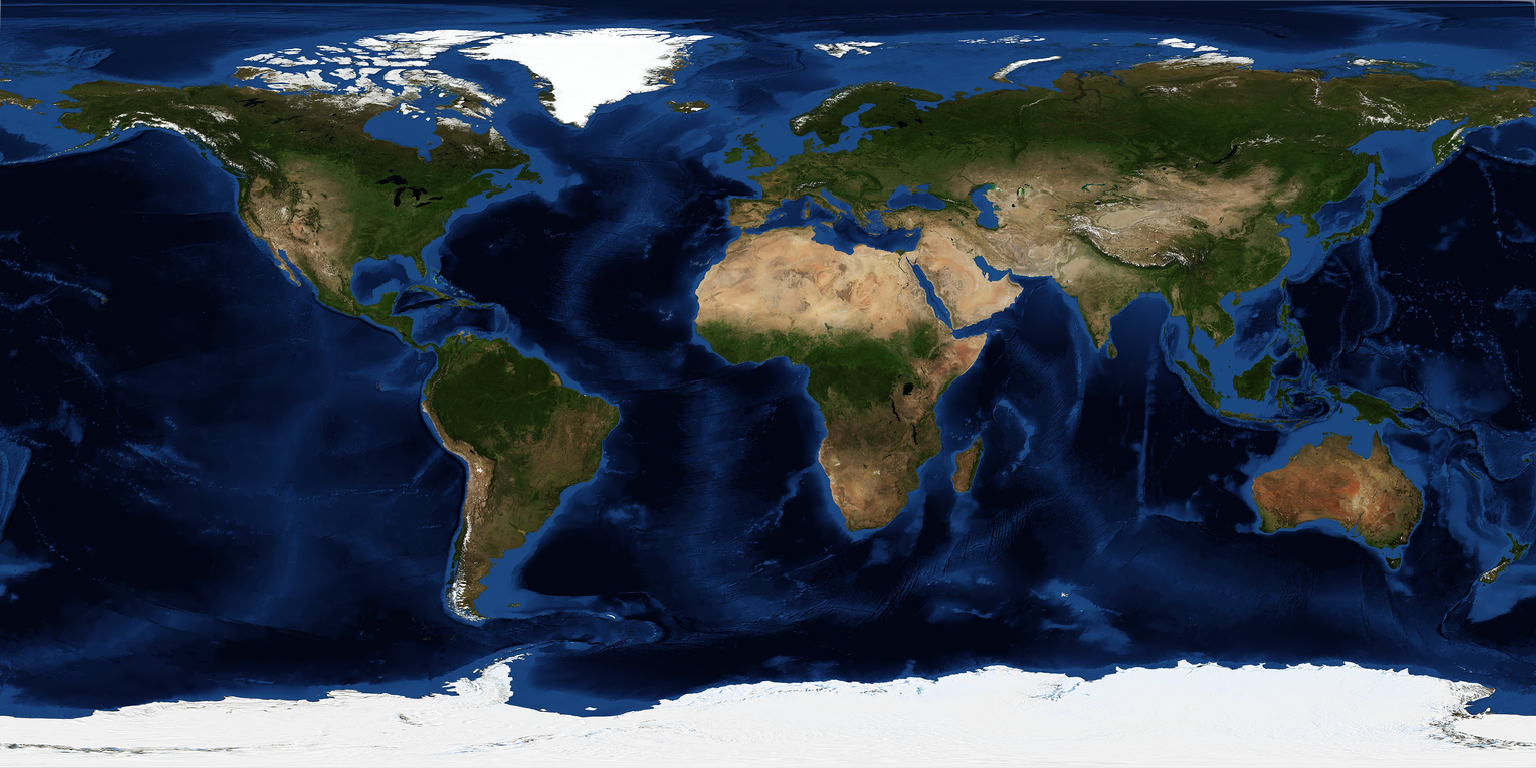
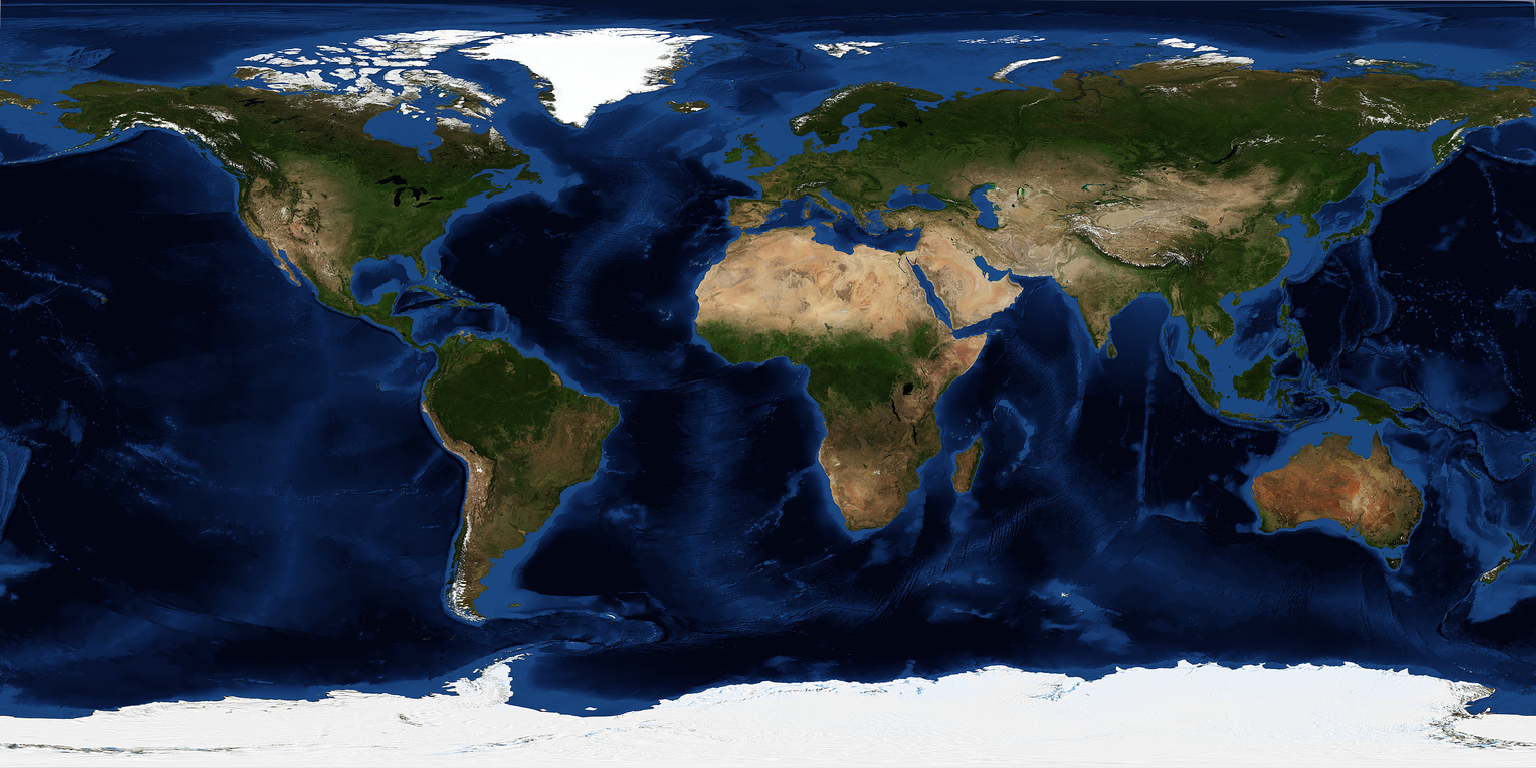
Portada: globo más nítido también en móvil (4K en todas las pantallas, textura de día más definida, más píxeles en pantallas retina); el origen se llama solo «Cartagena»
Claude-Session: https://claude.ai/code/session_01JPTHaAJ66ttUdrgcLwMZzx

diff --git a/index.html b/index.html
@@ -32,7 +32,7 @@
 <script>(function(){try{var K='guardiana-idioma',q=null;try{q=localStorage.getItem(K)}catch(e){}if(!q){var L=(navigator.languages&&navigator.languages.length)?navigator.languages:[navigator.language||''];for(var i=0;i<L.length;i++){var c=(''+L[i]).toLowerCase();if(c.indexOf('pt')===0){q='pt';break}if(c.indexOf('es')===0){q='es';break}if(c.indexOf('en')===0){q='en';break}}}var p=location.pathname;if((q==='es'||q==='pt')&&(p==='/'||p==='/index.html'))location.replace('/'+q+'/'+location.hash);}catch(e){}})();</script>
 <link rel="preload" as="font" type="font/woff" crossorigin href="/fonts/SchibstedGrotesk-var.woff">
 <link rel="preload" as="font" type="font/woff" crossorigin href="/fonts/HankenGrotesk-var.woff">
-<link rel="stylesheet" href="/portada.css?v=1792295738">
+<link rel="stylesheet" href="/portada.css?v=1792296046">
 </head>
 <body>
 <a class="saltar" href="#contenido">Skip to content</a>
@@ -206,11 +206,11 @@
     <p class="pie-dir">GUARDIANA · guardianagroup.com · Torre Empresarial PRODEGI, piso 18, Bocagrande, Cartagena de Indias, Colombia · <a href="mailto:hola@guardianagroup.com">hola@guardianagroup.com</a> · This page uses no cookies or analytics.</p>
   </div>
 </footer>
-<script src="/globo.js?v=1792295738" defer></script>
+<script src="/globo.js?v=1792296046" defer></script>
 <script>
 document.addEventListener('DOMContentLoaded',function(){
   try{var P=window.GUARDIANA_PRICES;if(P){var a=document.getElementById('plus-precio'),b=document.getElementById('plus-nota'),f=document.getElementById('fund-precio'),h=document.getElementById('hero-precio');if(a)a.textContent=P.plusEn;if(b)b.textContent=P.plusNoteEn;if(f)f.textContent=P.fundEn;if(h)h.textContent='Then '+P.plusEn+' or '+P.fundEn+' once.';}}catch(e){}
-  try{var cv=document.getElementById('globo'),fig=cv&&cv.closest('.hero-globo');if(!(cv&&window.GuardianaGlobo&&GuardianaGlobo.iniciar(cv,{ruta:'/tierra/',lon:-36,tilt:0.5,rutas:{origen:{n:'Test PC, Cartagena',ll:[-75.51,10.39]},destinos:[{n:'United States · 2,520',ll:[-88,38.5],peso:2520},{n:'Spain · 365',ll:[-3.7,40.3],peso:365},{n:'France · 219',ll:[2.4,46.6],peso:219},{n:'Canada · 86',ll:[-79.4,45.0],peso:86},{n:'United Kingdom · 81',ll:[-1.8,53.0],peso:81},{n:'Israel · 71',ll:[35.0,31.4],peso:71}]},lista:function(){cv.classList.add('listo');if(fig)fig.classList.add('vivo');}}))&&cv)cv.hidden=true;}catch(e){}
+  try{var cv=document.getElementById('globo'),fig=cv&&cv.closest('.hero-globo');if(!(cv&&window.GuardianaGlobo&&GuardianaGlobo.iniciar(cv,{ruta:'/tierra/',lon:-36,tilt:0.5,rutas:{origen:{n:'Cartagena',ll:[-75.51,10.39]},destinos:[{n:'United States · 2,520',ll:[-88,38.5],peso:2520},{n:'Spain · 365',ll:[-3.7,40.3],peso:365},{n:'France · 219',ll:[2.4,46.6],peso:219},{n:'Canada · 86',ll:[-79.4,45.0],peso:86},{n:'United Kingdom · 81',ll:[-1.8,53.0],peso:81},{n:'Israel · 71',ll:[35.0,31.4],peso:71}]},lista:function(){cv.classList.add('listo');if(fig)fig.classList.add('vivo');}}))&&cv)cv.hidden=true;}catch(e){}
   try{var K='guardiana-idioma',l=document.querySelectorAll('a[data-idioma]');for(var i=0;i<l.length;i++)l[i].addEventListener('click',function(){try{localStorage.setItem(K,this.getAttribute('data-idioma'))}catch(e){}});}catch(e){}
 });
 </script>

diff --git a/pt/index.html b/pt/index.html
@@ -32,7 +32,7 @@
 
 <link rel="preload" as="font" type="font/woff" crossorigin href="/fonts/SchibstedGrotesk-var.woff">
 <link rel="preload" as="font" type="font/woff" crossorigin href="/fonts/HankenGrotesk-var.woff">
-<link rel="stylesheet" href="/portada.css?v=1792295738">
+<link rel="stylesheet" href="/portada.css?v=1792296046">
 </head>
 <body>
 <a class="saltar" href="#contenido">Pular para o conteúdo</a>
@@ -206,11 +206,11 @@
     <p class="pie-dir">GUARDIANA · guardianagroup.com · Torre Empresarial PRODEGI, piso 18, Bocagrande, Cartagena de Indias, Colombia · <a href="mailto:hola@guardianagroup.com">hola@guardianagroup.com</a> · Esta página não usa cookies nem análises.</p>
   </div>
 </footer>
-<script src="/globo.js?v=1792295738" defer></script>
+<script src="/globo.js?v=1792296046" defer></script>
 <script>
 document.addEventListener('DOMContentLoaded',function(){
   try{var P=window.GUARDIANA_PRICES;if(P){var a=document.getElementById('plus-precio'),b=document.getElementById('plus-nota'),f=document.getElementById('fund-precio'),h=document.getElementById('hero-precio');if(a)a.textContent=P.plusPt;if(b)b.textContent=P.plusNotePt;if(f)f.textContent=P.fundPt;if(h)h.textContent='Depois, '+P.plusPt+' ou '+P.fundPt+' uma única vez.';}}catch(e){}
-  try{var cv=document.getElementById('globo'),fig=cv&&cv.closest('.hero-globo');if(!(cv&&window.GuardianaGlobo&&GuardianaGlobo.iniciar(cv,{ruta:'/tierra/',lon:-36,tilt:0.5,rutas:{origen:{n:'PC de testes, Cartagena',ll:[-75.51,10.39]},destinos:[{n:'Estados Unidos · 2.520',ll:[-88,38.5],peso:2520},{n:'Espanha · 365',ll:[-3.7,40.3],peso:365},{n:'França · 219',ll:[2.4,46.6],peso:219},{n:'Canadá · 86',ll:[-79.4,45.0],peso:86},{n:'Reino Unido · 81',ll:[-1.8,53.0],peso:81},{n:'Israel · 71',ll:[35.0,31.4],peso:71}]},lista:function(){cv.classList.add('listo');if(fig)fig.classList.add('vivo');}}))&&cv)cv.hidden=true;}catch(e){}
+  try{var cv=document.getElementById('globo'),fig=cv&&cv.closest('.hero-globo');if(!(cv&&window.GuardianaGlobo&&GuardianaGlobo.iniciar(cv,{ruta:'/tierra/',lon:-36,tilt:0.5,rutas:{origen:{n:'Cartagena',ll:[-75.51,10.39]},destinos:[{n:'Estados Unidos · 2.520',ll:[-88,38.5],peso:2520},{n:'Espanha · 365',ll:[-3.7,40.3],peso:365},{n:'França · 219',ll:[2.4,46.6],peso:219},{n:'Canadá · 86',ll:[-79.4,45.0],peso:86},{n:'Reino Unido · 81',ll:[-1.8,53.0],peso:81},{n:'Israel · 71',ll:[35.0,31.4],peso:71}]},lista:function(){cv.classList.add('listo');if(fig)fig.classList.add('vivo');}}))&&cv)cv.hidden=true;}catch(e){}
   try{var K='guardiana-idioma',l=document.querySelectorAll('a[data-idioma]');for(var i=0;i<l.length;i++)l[i].addEventListener('click',function(){try{localStorage.setItem(K,this.getAttribute('data-idioma'))}catch(e){}});}catch(e){}
 });
 </script>

diff --git a/es/index.html b/es/index.html
@@ -32,7 +32,7 @@
 
 <link rel="preload" as="font" type="font/woff" crossorigin href="/fonts/SchibstedGrotesk-var.woff">
 <link rel="preload" as="font" type="font/woff" crossorigin href="/fonts/HankenGrotesk-var.woff">
-<link rel="stylesheet" href="/portada.css?v=1792295738">
+<link rel="stylesheet" href="/portada.css?v=1792296046">
 </head>
 <body>
 <a class="saltar" href="#contenido">Saltar al contenido</a>
@@ -206,11 +206,11 @@
     <p class="pie-dir">GUARDIANA · guardianagroup.com · Torre Empresarial PRODEGI, piso 18, Bocagrande, Cartagena de Indias, Colombia · <a href="mailto:hola@guardianagroup.com">hola@guardianagroup.com</a> · Esta página no usa cookies ni analíticas.</p>
   </div>
 </footer>
-<script src="/globo.js?v=1792295738" defer></script>
+<script src="/globo.js?v=1792296046" defer></script>
 <script>
 document.addEventListener('DOMContentLoaded',function(){
   try{var P=window.GUARDIANA_PRICES;if(P){var a=document.getElementById('plus-precio'),b=document.getElementById('plus-nota'),f=document.getElementById('fund-precio'),h=document.getElementById('hero-precio');if(a)a.textContent=P.plus;if(b)b.textContent=P.plusNote;if(f)f.textContent=P.fund;if(h)h.textContent='Después, '+P.plus+' o '+P.fund+' una sola vez.';}}catch(e){}
-  try{var cv=document.getElementById('globo'),fig=cv&&cv.closest('.hero-globo');if(!(cv&&window.GuardianaGlobo&&GuardianaGlobo.iniciar(cv,{ruta:'/tierra/',lon:-36,tilt:0.5,rutas:{origen:{n:'PC de pruebas, Cartagena',ll:[-75.51,10.39]},destinos:[{n:'Estados Unidos · 2.520',ll:[-88,38.5],peso:2520},{n:'España · 365',ll:[-3.7,40.3],peso:365},{n:'Francia · 219',ll:[2.4,46.6],peso:219},{n:'Canadá · 86',ll:[-79.4,45.0],peso:86},{n:'Reino Unido · 81',ll:[-1.8,53.0],peso:81},{n:'Israel · 71',ll:[35.0,31.4],peso:71}]},lista:function(){cv.classList.add('listo');if(fig)fig.classList.add('vivo');}}))&&cv)cv.hidden=true;}catch(e){}
+  try{var cv=document.getElementById('globo'),fig=cv&&cv.closest('.hero-globo');if(!(cv&&window.GuardianaGlobo&&GuardianaGlobo.iniciar(cv,{ruta:'/tierra/',lon:-36,tilt:0.5,rutas:{origen:{n:'Cartagena',ll:[-75.51,10.39]},destinos:[{n:'Estados Unidos · 2.520',ll:[-88,38.5],peso:2520},{n:'España · 365',ll:[-3.7,40.3],peso:365},{n:'Francia · 219',ll:[2.4,46.6],peso:219},{n:'Canadá · 86',ll:[-79.4,45.0],peso:86},{n:'Reino Unido · 81',ll:[-1.8,53.0],peso:81},{n:'Israel · 71',ll:[35.0,31.4],peso:71}]},lista:function(){cv.classList.add('listo');if(fig)fig.classList.add('vivo');}}))&&cv)cv.hidden=true;}catch(e){}
   try{var K='guardiana-idioma',l=document.querySelectorAll('a[data-idioma]');for(var i=0;i<l.length;i++)l[i].addEventListener('click',function(){try{localStorage.setItem(K,this.getAttribute('data-idioma'))}catch(e){}});}catch(e){}
 });
 </script>

diff --git a/globo.js b/globo.js
@@ -64,7 +64,7 @@
       'void main(){ vec3 n=normalize(vN); float mu=dot(n,uSol);\n' +
       ' vec3 dia=pow(texture(uDia,vUv).rgb, vec3(2.2)); float luz=texture(uLuces,vUv).r; float agua=texture(uAgua,vUv).r;\n' +
       ' float lado=smoothstep(-0.08,0.22,mu); float diaF=smoothstep(-0.14,0.24,mu);\n' +
-      ' vec3 col=mix(dia*vec3(0.19,0.24,0.38)+vec3(0.005,0.011,0.026), dia*(0.70+0.62*max(mu,0.0)), diaF);\n' +
+      ' vec3 col=mix(dia*vec3(0.24,0.29,0.44)+vec3(0.005,0.011,0.026), dia*(0.70+0.62*max(mu,0.0)), diaF);\n' +
       ' col+=dia*vec3(1.0,0.45,0.2)*0.22*exp(-pow((mu-0.03)*10.0,2.0));\n' +
       ' float noche=1.0-smoothstep(-0.20,0.05,mu); col+=vec3(1.0,0.70,0.38)*pow(luz,1.2)*1.9*noche;\n' +
       ' vec3 nw=normalize(uM3*n); vec3 V=normalize(uCam-vW); vec3 Lw=normalize(uM3*uSol);\n' +
@@ -104,8 +104,8 @@
     }
     var tex = { dia: textura(null), luces: textura(null), agua: textura(null) }, listas = 0;
     // Sharp on every screen (the owner, 17 Oct 2026: «un pelín borroso… máxima calidad»): 4K
-    // textures on computers, 2K on phones, both from NASA's 16K tiles; 2K if the GPU can't take 4K.
-    var tam = movil || gl.getParameter(gl.MAX_TEXTURE_SIZE) < 4096 ? '-2k' : '-4k';
+    // textures from NASA's 16K tiles on every screen, phones included; 2K only if the GPU can't take 4K.
+    var tam = gl.getParameter(gl.MAX_TEXTURE_SIZE) < 4096 ? '-2k' : '-4k';
     function carga(clave, url) {
       var im = new Image(); im.decoding = 'async';
       im.onload = function () { gl.deleteTexture(tex[clave]); tex[clave] = textura(im); cambio = true; listas++; if (listas === 3 && op.lista) op.lista(); pide(); };
@@ -206,7 +206,7 @@
     var rot = -lon0 * RAD + (R ? 0 : 0.35), tilt = op.tilt != null ? op.tilt : 0.32, vr = 0, vt = 0, tocado = false;
 
     function dibuja() {
-      var dpr = Math.min(window.devicePixelRatio || 1, 2.5), W = Math.round(cv.clientWidth * dpr), H = Math.round(cv.clientHeight * dpr);
+      var dpr = Math.min(window.devicePixelRatio || 1, 3), W = Math.round(cv.clientWidth * dpr), H = Math.round(cv.clientHeight * dpr);
       if (!W || !H) return;
       if (cv.width !== W || cv.height !== H) { cv.width = W; cv.height = H; }
       gl.viewport(0, 0, W, H); gl.clearColor(0, 0, 0, 0); gl.clear(gl.COLOR_BUFFER_BIT | gl.DEPTH_BUFFER_BIT);
